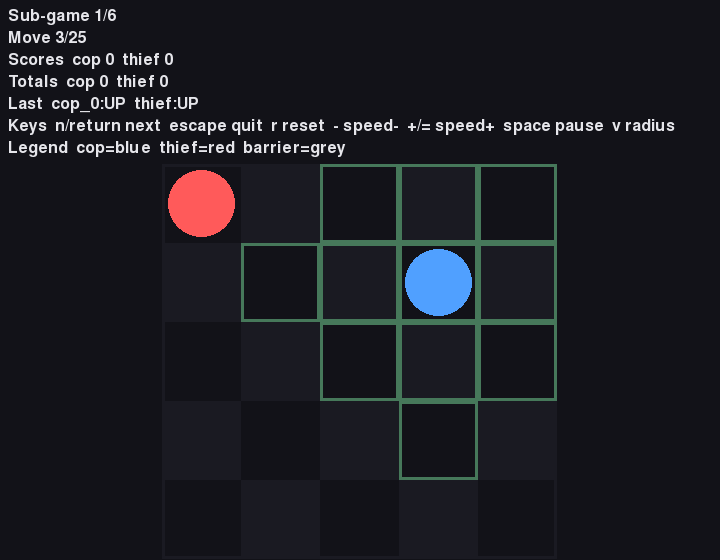
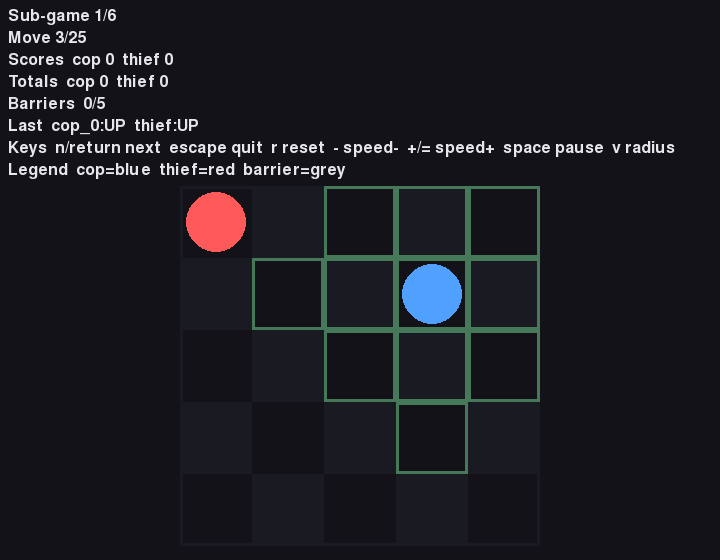
feat(§10): HUD shows the §3.3 barrier budget; board gets bottom breathing room
Found by looking at the committed §7.3 screenshots rather than the code. Two gaps:

1. `max_barriers` (5) is the cop's scarcest resource and drives its whole strategy,
   but no HUD line showed it — a spectator had to count grey cells. The count is
   derivable from data the frame already carried, so this needed no new plumbing:
   SpectatorFrame gains `max_barriers` (default 0) and the HUD renders
   "Barriers placed/budget". Sources that genuinely do not know the budget (wire
   replay) OMIT the line rather than render a misleading "0/0" — asserting a fact
   the source cannot support is worse than saying nothing.
2. The board letterboxed into every pixel below the HUD, so its bottom edge sat
   flush against the window frame. GridView now reserves BOARD_MARGIN_PX at the
   bottom, and keeps the margin only while a usable strip remains (on a very short
   window a visible board beats a pretty gap).

Also DRY: 720x560 was spelled twice — run_app's defaults and capture_screens — so a
resize would have silently desynced the live app from the committed screenshots.
palette.WINDOW_W/H is now the single source.

Screenshots regenerated; the barriers demo frame now passes the real budget, so
state_barriers.png reads "Barriers 2/5" against the two grey cells it draws.
UX.md §1 (visibility of system status) and the README caption follow, and a
mutation-verified guard pins the caption's "/5" to config (RED at max_barriers: 4).

935 tests, 98.74% coverage.

Changed region(s): [[0.0, 0.1518, 0.9472, 0.8804]]

diff --git a/tests/unit/test_gui_polish.py b/tests/unit/test_gui_polish.py
@@ -1,0 +1,103 @@
+"""The §10 HUD/board polish: a visible barrier budget and a board that isn't bottom-flush.
+
+Two gaps this closes, both found by inspecting the committed §7.3 screenshots:
+  * `max_barriers` (5) is a core §3.3 resource driving the cop's whole strategy, yet the
+    HUD never showed it — a spectator had to count grey cells.
+  * the board letterboxed into ALL remaining space, so its bottom edge sat flush against
+    the window with zero breathing room.
+"""
+
+from __future__ import annotations
+
+from src.gui import palette
+from src.gui.draw_plan import build_hud_plan, hud_height
+from src.gui.spectator import SpectatorFrame
+from src.gui.transform import GridView
+
+
+def _frame(**over) -> SpectatorFrame:
+    base = {
+        "grid": (5, 5),
+        "cop_positions": ((1, 1),),
+        "thief_position": (3, 3),
+        "barriers": ((0, 0), (2, 2)),
+        "view_radius": 2,
+        "move": 4,
+        "max_moves": 25,
+        "sub_game": 2,
+        "num_games": 6,
+        "scores": {"cop": 0, "thief": 0},
+        "totals": {"cop": 0, "thief": 0},
+        "winner": None,
+        "last_action": {"cop_0": "UP", "thief": "LEFT"},
+    }
+    return SpectatorFrame(**{**base, **over})
+
+
+def _texts(frame) -> list[str]:
+    return [op["text"] for op in build_hud_plan(frame)]
+
+
+def test_hud_shows_barriers_placed_over_budget() -> None:
+    """Two barriers placed out of a budget of 5 must read 'Barriers  2/5'."""
+    line = next(t for t in _texts(_frame(max_barriers=5)) if t.startswith("Barriers"))
+    assert line == "Barriers  2/5"
+
+
+def test_barrier_line_tracks_the_actual_placements() -> None:
+    """The count is derived from the frame's barriers — it cannot drift from the board."""
+    frame = _frame(barriers=((0, 0), (1, 1), (2, 2), (3, 3)), max_barriers=5)
+    assert "Barriers  4/5" in _texts(frame)
+
+
+def test_exhausted_budget_is_visible() -> None:
+    """A cop with no barriers left must be able to see that from the HUD alone."""
+    frame = _frame(barriers=tuple((0, i) for i in range(5)), max_barriers=5)
+    assert "Barriers  5/5" in _texts(frame)
+
+
+def test_hud_omits_the_barrier_line_when_the_budget_is_unknown() -> None:
+    """Frame sources that do not carry a budget (replay/demo) must not render '0/0'."""
+    assert not [t for t in _texts(_frame()) if t.startswith("Barriers")]
+
+
+def test_hud_height_absorbs_the_extra_line() -> None:
+    """hud_height is derived, so the taller HUD must reserve more board space, not overlap."""
+    assert hud_height(_frame(max_barriers=5)) > hud_height(_frame())
+
+
+def test_board_is_not_flush_with_the_window_bottom() -> None:
+    """The board's bottom edge must clear the window by the configured margin."""
+    rows = cols = 5
+    view = GridView(720, 560, cols, rows, top_reserved=hud_height(_frame(max_barriers=5)))
+    bottom = view.cell_rect(cols - 1, rows - 1)[1] + view.cell_px
+    assert 560 - bottom >= palette.BOARD_MARGIN_PX
+
+
+def test_board_still_clears_the_hud() -> None:
+    """The margin must not be bought by sliding the board up under the HUD text."""
+    top = hud_height(_frame(max_barriers=5))
+    view = GridView(720, 560, 5, 5, top_reserved=top)
+    assert view.cell_rect(0, 0)[1] >= top
+
+
+def test_window_size_has_a_single_source() -> None:
+    """720x560 was duplicated in run_app and capture_screens; palette is now the one source."""
+    assert (palette.WINDOW_W, palette.WINDOW_H) == (720, 560)
+
+
+def test_readme_barrier_caption_matches_the_configured_budget(cfg) -> None:
+    """README claims the demo HUD reads 'Barriers 2/5' — the /5 must track config, not prose.
+
+    Mutation-checked: dropping game.max_barriers to 4 without editing the caption fails here.
+    """
+    import re  # noqa: PLC0415 - only this guard needs it
+    from pathlib import Path  # noqa: PLC0415
+
+    readme = Path(__file__).resolve().parents[2] / "README.md"
+    claims = re.findall(r"`Barriers (\d+)/(\d+)`", readme.read_text(encoding="utf-8"))
+    assert claims, "README no longer states the barrier readout — caption/feature drift"
+    budget = int(cfg["game"]["max_barriers"])
+    for placed, cap in claims:
+        assert int(cap) == budget, f"README says /{cap}, config says /{budget}"
+        assert int(placed) <= budget, "caption claims more barriers placed than the budget allows"

diff --git a/src/gui/transform.py b/src/gui/transform.py
@@ -9,7 +9,7 @@ rects — keeping the geometry testable headless.
 
 from __future__ import annotations
 
-from src.gui.palette import CELL_PX_CAP
+from src.gui.palette import BOARD_MARGIN_PX, CELL_PX_CAP
 
 
 class GridView:
@@ -19,12 +19,18 @@ class GridView:
         """Compute the square cell size + the letterbox origin for this window/board.
 
         ``top_reserved`` excludes a top strip (the HUD) from the letterbox area, so the
-        board never renders under the HUD text (it centers in the remaining space).
+        board never renders under the HUD text (it centers in the remaining space). A
+        ``BOARD_MARGIN_PX`` strip is excluded at the BOTTOM for the same reason in reverse —
+        otherwise the board letterboxes into every remaining pixel and its bottom edge sits
+        flush against the window frame.
         """
         self._cols = int(cols)
         self._rows = int(rows)
         top = max(0, int(top_reserved))
-        board_h = max(1, window_h - top)
+        # Keep the margin only while it still leaves a usable strip — on a very short window
+        # a visible board beats a pretty gap.
+        margin = BOARD_MARGIN_PX if window_h - top > 2 * BOARD_MARGIN_PX else 0
+        board_h = max(1, window_h - top - margin)
         usable = min(window_w / max(1, self._cols), board_h / max(1, self._rows))
         self._cell = max(1, int(min(CELL_PX_CAP, usable)))
         self._x0 = (window_w - self._cell * self._cols) // 2

diff --git a/scripts/capture_screens.py b/scripts/capture_screens.py
@@ -22,6 +22,7 @@ def main(cfg: dict | None = None) -> list[str]:  # pragma: no cover - requires p
     os.environ.setdefault("SDL_VIDEODRIVER", "dummy")
     import pygame  # noqa: PLC0415 - lazy: pygame is the optional gui extra
 
+    from src.gui import palette  # noqa: PLC0415 - lazy with pygame
     from src.gui.render import render_frame  # noqa: PLC0415 - lazy with pygame
 
     cfg = cfg or load_config()
@@ -33,7 +34,7 @@ def main(cfg: dict | None = None) -> list[str]:  # pragma: no cover - requires p
     saved: list[str] = []
 
     def _shot(frame: object, name: str, show_radius: bool = False) -> None:
-        surface = pygame.Surface((720, 560))
+        surface = pygame.Surface((palette.WINDOW_W, palette.WINDOW_H))
         render_frame(surface, font, frame, show_radius)
         path = out_dir / name
         pygame.image.save(surface, str(path))
@@ -77,6 +78,9 @@ def main(cfg: dict | None = None) -> list[str]:  # pragma: no cover - requires p
         totals={"cop": 20, "thief": 5},
         winner=None,
         last_action={"cop_0": "PLACE_BARRIER", "thief": "LEFT"},
+        # The budget is the POINT of this screenshot — a barrier state that hides how many
+        # remain would document the feature and omit its most useful number.
+        max_barriers=int(cfg["game"]["max_barriers"]),
     )
     _shot(demo, "state_barriers.png")
     pygame.quit()

diff --git a/src/gui/draw_plan.py b/src/gui/draw_plan.py
@@ -94,10 +94,12 @@ def hud_height(frame: SpectatorFrame) -> int:
 
 
 def build_hud_plan(frame: SpectatorFrame, supported_commands=None) -> list[dict]:
-    """Return the HUD text ops (sub-game / move / scores / totals / last / winner / help).
+    """Return the HUD text ops (sub-game / move / scores / totals / barriers / last / winner / help).
 
     ``supported_commands`` filters the help line per frame-source capability (see
-    :func:`_help_line`); the line COUNT never changes, so ``hud_height`` is unaffected.
+    :func:`_help_line`) WITHOUT changing the line count. The barrier and winner lines do
+    change it — which is exactly why :func:`hud_height` measures this plan instead of
+    hard-coding a row count.
     """
     lines = [
         f"Sub-game {frame.sub_game}/{frame.num_games}",
@@ -105,6 +107,8 @@ def build_hud_plan(frame: SpectatorFrame, supported_commands=None) -> list[dict]
         f"Scores  cop {frame.scores['cop']}  thief {frame.scores['thief']}",
         f"Totals  cop {frame.totals['cop']}  thief {frame.totals['thief']}",
     ]
+    if frame.max_barriers:  # §3.3 budget — omitted when the frame source doesn't know it
+        lines.append(f"Barriers  {len(frame.barriers)}/{frame.max_barriers}")
     if frame.last_action:
         lines.append("Last  " + "  ".join(f"{k}:{v}" for k, v in frame.last_action.items()))
     if frame.winner:

diff --git a/src/gui/palette.py b/src/gui/palette.py
@@ -25,3 +25,13 @@ CELL_PX_CAP = 96
 FPS = 30
 MOVE_ANIM_MS = 180
 FONT_PX = 18
+
+# Window size — the SINGLE source. It used to be spelled 720/560 in both
+# ``render.run_app``'s defaults and ``scripts/capture_screens.py``, so a resize would have
+# silently desynced the live app from the committed §7.3 screenshots.
+WINDOW_W = 720
+WINDOW_H = 560
+
+# Breathing room under the board. Without it the letterbox consumed every pixel below the
+# HUD and the board's bottom edge sat flush against the window frame.
+BOARD_MARGIN_PX = 14

diff --git a/src/gui/render.py b/src/gui/render.py
@@ -66,7 +66,7 @@ def _supported_commands(client) -> frozenset:
     return frozenset(commands)
 
 
-def run_app(client, width=720, height=560, fps=palette.FPS) -> None:
+def run_app(client, width=palette.WINDOW_W, height=palette.WINDOW_H, fps=palette.FPS) -> None:
     """Run the spectator window loop over a state ``client`` (reset/step -> frame).
 
     The CURRENT frame is rendered BEFORE the next step is consumed, so startup /

diff --git a/src/gui/spectator.py b/src/gui/spectator.py
@@ -31,3 +31,6 @@ class SpectatorFrame:
     winner: str | None
     last_action: dict[str, str] | None
     trace_id: str | None = None  # optional cloud field (None in-proc)
+    # §3.3 per-sub-game barrier budget. 0 = "this frame source does not know it" (replay /
+    # demo frames), which makes the HUD omit the line rather than render a misleading 0/0.
+    max_barriers: int = 0

diff --git a/src/services/spectator.py b/src/services/spectator.py
@@ -99,4 +99,5 @@ class SpectatorSession:
             totals=dict(self._totals),
             winner=self._winner,
             last_action=self._last_action,
+            max_barriers=int(self._cfg["game"]["max_barriers"]),
         )

diff --git a/README.md b/README.md
@@ -9,7 +9,7 @@ end-of-game **Gmail** report.
 
 > **Status: COMPLETE (v1.2.0 — post-audit hardening; 1.1.0 shipped the Minimax-Q bonus).** All phases P0→P11 are implemented — plus a tabular Minimax-Q
 > equilibrium baseline (the L11 §5 self-challenge bonus; see §7.2 + ANALYSIS §10) — tested
-> (926 tests, ≥98% coverage, ruff clean, CI green), and the §7 analysis below is fully authored
+> (935 tests, ≥98% coverage, ruff clean, CI green), and the §7 analysis below is fully authored
 > from a real training run. This README is the submission report (brief §7). Design docs:
 > [`docs/PRD.md`](docs/PRD.md), [`docs/PLAN.md`](docs/PLAN.md), [`docs/TODO.md`](docs/TODO.md).
 
@@ -30,7 +30,7 @@ end-of-game **Gmail** report.
 ```bash
 uv sync --extra gui --group dev --group mcp   # uv-only (no pip/conda) — the SAME line CI runs;
                                               #   add --group mail only for the live report send
-uv run pytest tests/ --cov=src   # quality gates (926 tests, ≥85% coverage)
+uv run pytest tests/ --cov=src   # quality gates (935 tests, ≥85% coverage)
 uv run ruff check src/ tests/ scripts/
 uv run ruff format --check src/ tests/ scripts/
 uv run python scripts/check_file_sizes.py   # every .py ≤150 LOC
@@ -446,8 +446,9 @@ as §5.3 requires.*
 ![GUI terminal state](results/screenshots/state_terminal.png) ![GUI barriers](results/screenshots/state_barriers.png)
 *GUI states beyond "running": the terminal winner-banner (left — move 25/25 timeout, thief wins 10/5)
 and barrier rendering (right — a hand-set demo state; §5.4's barrier display. The heuristic agents only
-navigate around barriers, so barriers are shown via the real draw path on a set board). The view-radius
-overlay state (`state_view_radius.png`) is referenced from [`docs/UX.md`](docs/UX.md).*
+navigate around barriers, so barriers are shown via the real draw path on a set board). The right-hand
+HUD also reads `Barriers 2/5` — the §3.3 budget, matching the two grey cells drawn on the board. The
+view-radius overlay state (`state_view_radius.png`) is referenced from [`docs/UX.md`](docs/UX.md).*
 
 End-to-end evidence: [`results/subgames/full_match_5x5.redacted.json`](results/subgames/full_match_5x5.redacted.json)
 is a full 6-sub-game §3.5 report (role-only, PII-redacted) produced by `sdk.run_local_match` with FRESH

diff --git a/docs/UX.md b/docs/UX.md
@@ -15,9 +15,15 @@ referee internals — enforced by `tests/architecture/test_gui_purity.py`).
 
 ## 1. Visibility of system status
 The HUD always shows **sub-game `i/6`**, **move `k/25`**, live **scores** and
-**totals**, the **last joint action** (e.g. `cop_0: UP, thief: LEFT`), and a
-**winner banner** at terminal. The token positions update every tick; a **capture
-flash** marks the deciding move. → `grid_5x5.png`.
+**totals**, the **barrier budget `placed/5`** (§3.3 — the cop's scarcest resource,
+previously inferable only by counting grey cells), the **last joint action** (e.g.
+`cop_0: UP, thief: LEFT`), and a **winner banner** at terminal. The token positions
+update every tick; a **capture flash** marks the deciding move. → `grid_5x5.png`,
+`state_barriers.png`.
+
+The budget line is **omitted, not zeroed**, by frame sources that genuinely do not know
+it (wire replay). A HUD reading `Barriers 0/0` would assert a fact the source cannot
+support — silence is the honest rendering.
 
 ## 2. Match between system and the real world
 The board is a literal grid with intuitive tokens (cop = blue, thief = red,

diff --git a/docs/QUALITY.md b/docs/QUALITY.md
@@ -5,7 +5,7 @@ characteristics, with a concrete A6 artifact for each (no prose-only claims).
 
 ## Functional Suitability
 The system trains CTDE QMIX/VDN/IQL pursuit policies and plays a 6-sub-game match over a
-dual-MCP contract, emailing the §3.5 report. Evidence: 926 tests (happy + error paths)
+dual-MCP contract, emailing the §3.5 report. Evidence: 935 tests (happy + error paths)
 at ≥85% coverage; the §3.5 report passes `report.schema.json` + the derived-totals
 invariants (`src/reporting/schema.py::validate`); F5 reports the IQL/VDN/QMIX comparison —
 VDN the highest mean, IQL the tightest cross-seed spread, QMIX least stable at the 50-round
